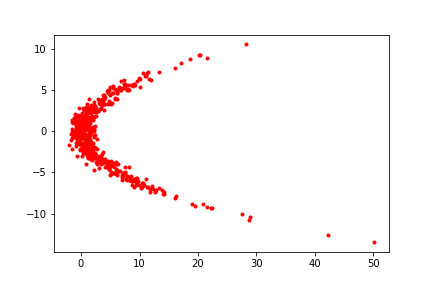
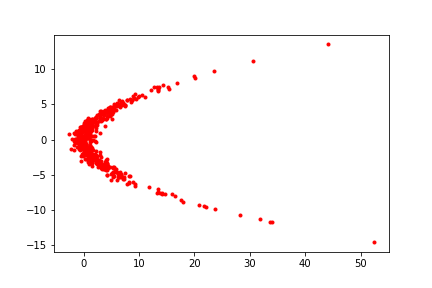
add batchnorm transform

diff --git a/maf/maskedAutoregressiveFlow.py b/maf/maskedAutoregressiveFlow.py
@@ -6,15 +6,19 @@ from pyro.distributions import InverseAutoregressiveFlowStable
 from pyro.nn import AutoRegressiveNN
 from batchnorm import BatchNormTransform
 
+import matplotlib.pyplot as plt
+%matplotlib inline
+
 device = torch.device("cuda" if torch.cuda.is_available() else "cpu")
 
 class MAFsDensityEstimator(nn.Module):
-    def __init__(self, D, iafs):
+    def __init__(self, D, K):
         super(MAFsDensityEstimator, self).__init__()
         modules = nn.ModuleList()
         ## inversing IAF to get MAF
         mafs = []
-        for iaf in iafs:
+        for _ in range(K):
+            iaf = InverseAutoregressiveFlowStable(AutoRegressiveNN(D, [2*D]))
             mafs.append(iaf.inv)
             modules.append(iaf.module)
             ## add batchnorm layer
@@ -46,8 +50,7 @@ def drawP(n):
 x = drawP(512).to(device)
 
 K, D = 5, 2
-mafs = [InverseAutoregressiveFlowStable(AutoRegressiveNN(2, [4])) for _ in range(K)]
-m = MAFsDensityEstimator(D, mafs).to(device)
+m = MAFsDensityEstimator(D, K).to(device)
 optimizer = torch.optim.Adam(m.parameters(), lr=0.001)
 lossF = lambda x: -torch.mean(m(x))
 
@@ -64,9 +67,7 @@ for epoch in range(epochs):
         optimizer.step()
     print("Epoch: {}  Loss: {}".format(epoch, epochLoss/iterations))
 
-
-import matplotlib.pyplot as plt
-%matplotlib inline
+## Visualization
 
 ## learned distribution
 z = m.sample(512)

diff --git a/maf/README.md b/maf/README.md
@@ -4,7 +4,7 @@
 
 We will use the `AutoRegressiveNN` and `InverseAutoregressiveFlowStable` implemented in pyro.
 
-```{.python .input}
+```{.python .input  n=1}
 import torch
 import torch.nn as nn
 import torch.nn.functional as F
@@ -19,31 +19,15 @@ import matplotlib.pyplot as plt
 device = torch.device("cuda" if torch.cuda.is_available() else "cpu")
 ```
 
-We can define an iaf instance with the following code
-
-`iaf = InverseAutoregressiveFlowStable(AutoRegressiveNN(2, [4]))`
-
-and get `maf` with `maf = iaf.inv`
-
-As the learnable parameters are stored in `iaf.module` so we still pass the `iafs` into the defined `MAFsDensityEstimator`.
-
-We can get the transformed distribution with a base distribution and masked autoencoder normalizing flows
-
-```{.python .input}
-dist.TransformedDistribution(
-    dist.MultivariateNormal(μ, σ),
-    mafs
-)
-```
-
-```{.python .input}
+```{.python .input  n=3}
 class MAFsDensityEstimator(nn.Module):
-    def __init__(self, D, iafs):
+    def __init__(self, D, K):
         super(MAFsDensityEstimator, self).__init__()
         modules = nn.ModuleList()
         ## inversing IAF to get MAF
         mafs = []
-        for iaf in iafs:
+        for _ in range(K):
+            iaf = InverseAutoregressiveFlowStable(AutoRegressiveNN(D, [2*D]))
             mafs.append(iaf.inv)
             modules.append(iaf.module)
             ## add batchnorm layer
@@ -66,7 +50,7 @@ class MAFsDensityEstimator(nn.Module):
 
 Let us define a target distribution to be learned.
 
-```{.python .input  n=28}
+```{.python .input  n=4}
 ## draw samples from target distribution
 def drawP(n):
     x2_dist = dist.Normal(0, 4)
@@ -79,12 +63,11 @@ def drawP(n):
 
 Drawing the training data and defining the model.
 
-```{.python .input  n=22}
+```{.python .input  n=5}
 x = drawP(512).to(device)
 
 K, D = 5, 2
-mafs = [InverseAutoregressiveFlowStable(AutoRegressiveNN(2, [4])) for _ in range(K)]
-m = MAFsDensityEstimator(D, mafs).to(device)
+m = MAFsDensityEstimator(D, K).to(device)
 optimizer = torch.optim.Adam(m.parameters(), lr=0.001)
 lossF = lambda x: -torch.mean(m(x))
 ```
@@ -112,7 +95,7 @@ for epoch in range(epochs):
 ```{.python .input  n=11}
 z = m.sample(512)
 plt.plot(z.cpu().numpy()[:, 0], z.cpu().numpy()[:, 1], ".r")
-plt.savefig("images/iaf-1.png")
+#plt.savefig("../images/iaf-1.png")
 ```
 
 ![](../images/iaf-1.png)
@@ -121,11 +104,7 @@ plt.savefig("images/iaf-1.png")
 
 ```{.python .input}
 plt.plot(x.cpu().numpy()[:, 0], x.cpu().numpy()[:, 1], ".r")
-plt.savefig("images/iaf-2.png")
+#plt.savefig("images/iaf-2.png")
 ```
 
 ![](../images/iaf-2.png)
-
-```{.python .input}
-
-```
